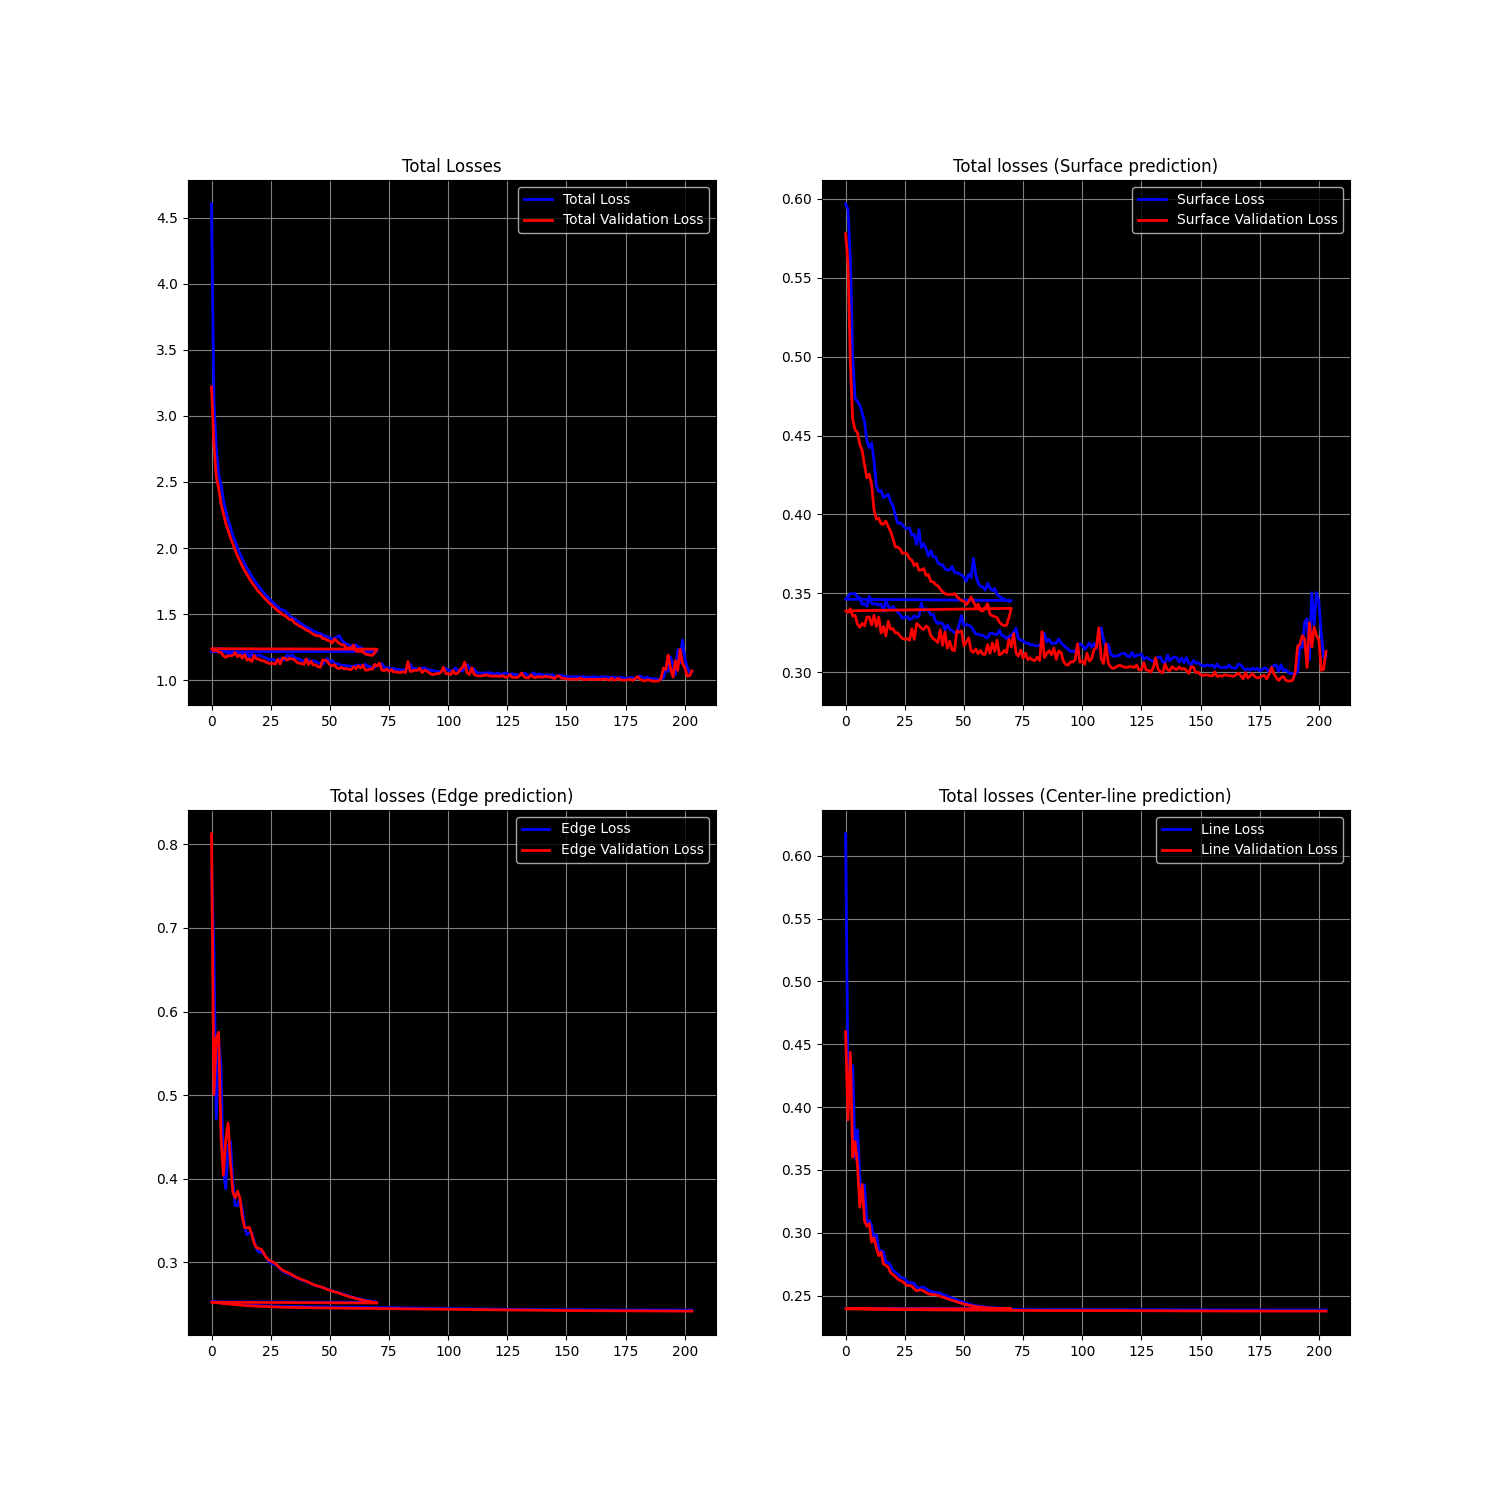
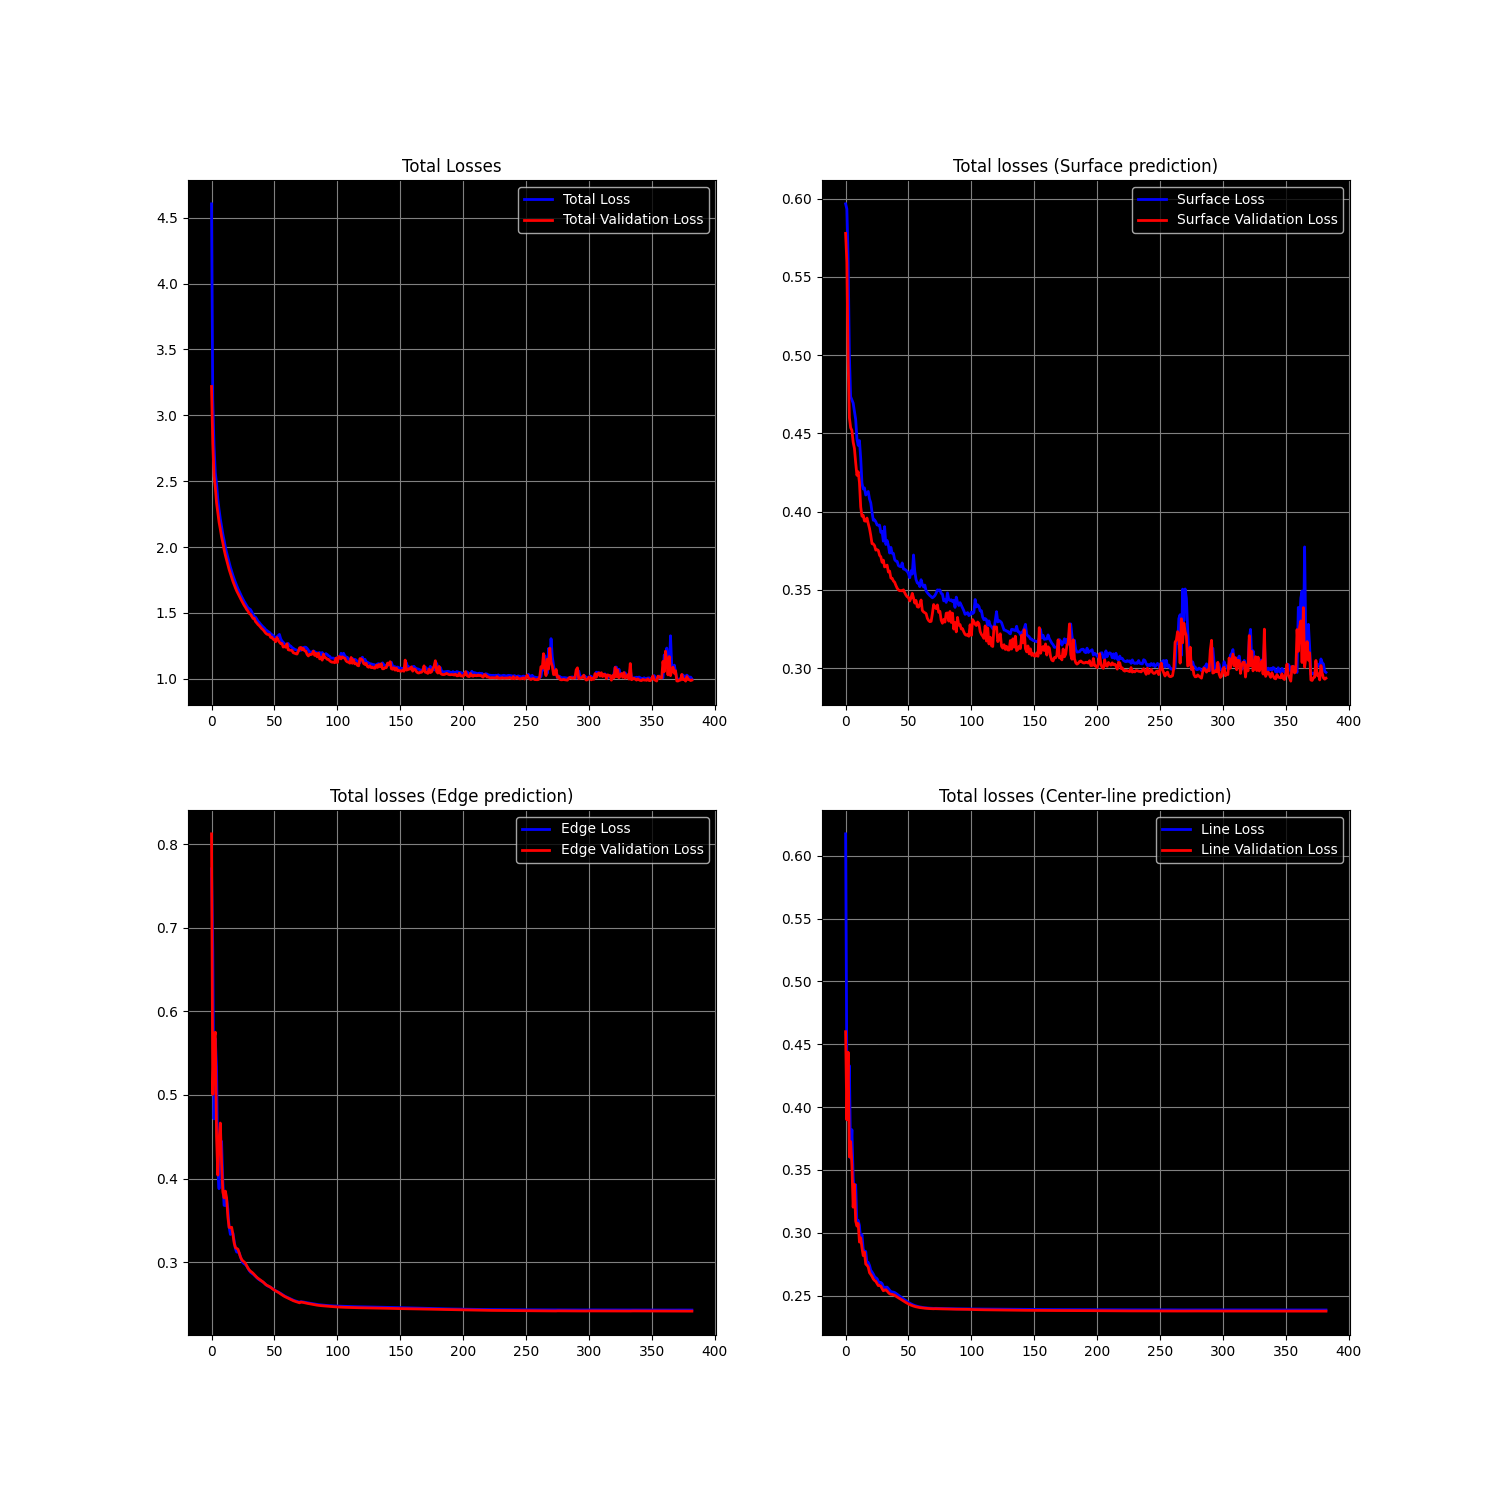
Modified visualize.py file

diff --git a/ver_2/models.py b/ver_2/models.py
@@ -41,7 +41,7 @@ class RoadSurfaceNet(object):
         ### Second output ###
         ### Size = W/2 * H/2 * 1 ###
         side_2 = Conv2D(2, kernel_size=(1,1), activation='selu')(conv_2)
-        side_2 = Conv2DTranspose(2, kernel_size=(2,2), strides=(2,2), padding='same', activation='sigmoid', kernel_regularizer=l2(l2=1e-4))(side_2)
+        side_2 = Conv2DTranspose(2, kernel_size=(2,2), strides=(2,2), padding='same', activation='sigmoid')(side_2)
 
         ### Stage 3 ###
         conv_3 = Conv2D(32, kernel_size=(3,3), activation='selu', padding='same')(pool_2)
@@ -52,7 +52,7 @@ class RoadSurfaceNet(object):
         ### Third output ###
         ### Size = W/4 * H/4 * 1 ###
         side_3 = Conv2D(2, kernel_size=(1,1), activation='selu')(conv_3)
-        side_3 = Conv2DTranspose(2, kernel_size=(4,4), strides=(4,4), padding='same', activation='sigmoid', kernel_regularizer=l2(l2=1e-4))(side_3)
+        side_3 = Conv2DTranspose(2, kernel_size=(4,4), strides=(4,4), padding='same', activation='sigmoid')(side_3)
 
         ### Stage 4 ###
         conv_4 = Conv2D(64, kernel_size=(3,3), activation='selu', padding='same')(pool_3)
@@ -63,7 +63,7 @@ class RoadSurfaceNet(object):
         ### Fourth output ###
         ### Size = W/8 * H/8 * 1 ###
         side_4 = Conv2D(2, kernel_size=(1,1), activation='selu')(conv_4)
-        side_4 = Conv2DTranspose(2, kernel_size=(8,8), strides=(8,8), padding='same', activation='sigmoid', kernel_regularizer=l2(l2=1e-4))(side_4)
+        side_4 = Conv2DTranspose(2, kernel_size=(8,8), strides=(8,8), padding='same', activation='sigmoid')(side_4)
 
         ### Stage 5 ###
         conv_5 = Conv2D(128, kernel_size=(3,3), activation='selu', padding='same')(pool_4) 
@@ -73,7 +73,7 @@ class RoadSurfaceNet(object):
         ### Fifth output ###
         ### Size = W/16 * H/16 * 1 ###
         side_5 = Conv2D(2, kernel_size=(1,1), activation='sigmoid')(conv_5)
-        side_5 = Conv2DTranspose(2, kernel_size=(16,16), strides=(16,16), padding='same', activation='sigmoid', kernel_regularizer=l2(l2=1e-4))(side_5)
+        side_5 = Conv2DTranspose(2, kernel_size=(16,16), strides=(16,16), padding='same', activation='sigmoid')(side_5)
 
         ### concatenated output ###
         concat = Concatenate(axis=3)([side_1, side_2, side_3, side_4, side_5])
@@ -125,7 +125,7 @@ class SideNet(object):
 
         ### Second output ###
         side_2 = Conv2D(2, kernel_size=(1,1), activation='selu')(conv_2)
-        side_2 = Conv2DTranspose(2, kernel_size=(2,2), strides=(2,2), activation='sigmoid', padding='same', kernel_regularizer=l2(l2=1e-4))(side_2)
+        side_2 = Conv2DTranspose(2, kernel_size=(2,2), strides=(2,2), activation='sigmoid', padding='same')(side_2)
 
         conv_3 = Conv2D(32, kernel_size=(3,3), activation='selu', padding='same')(pool_2)
         conv_3 = Conv2D(32, kernel_size=(3,3), activation='selu', padding='same')(conv_3)
@@ -133,14 +133,14 @@ class SideNet(object):
 
         ### Third output ###
         side_3 = Conv2D(2, kernel_size=(1,1), activation='selu')(conv_3)
-        side_3 = Conv2DTranspose(2, kernel_size=(4,4), strides=(4,4), activation='sigmoid', padding='same', kernel_regularizer=l2(l2=1e-4))(side_3)
+        side_3 = Conv2DTranspose(2, kernel_size=(4,4), strides=(4,4), activation='sigmoid', padding='same')(side_3)
 
         conv_4 = Conv2D(64, kernel_size=(3,3), activation='selu', padding='same')(pool_3)
         conv_4 = Conv2D(64, kernel_size=(3,3), activation='selu', padding='same')(conv_4)
 
         ### Fourth output ###
         side_4 = Conv2D(2, kernel_size=(1,1), activation='selu')(conv_4)
-        side_4 = Conv2DTranspose(2, kernel_size=(8,8), strides=(8,8), activation='sigmoid', padding='same', kernel_regularizer=l2(l2=1e-4))(side_4)
+        side_4 = Conv2DTranspose(2, kernel_size=(8,8), strides=(8,8), activation='sigmoid', padding='same')(side_4)
 
         concat = Concatenate(axis=3)([side_1, side_2, side_3, side_4])
         # concat = tf.keras.layers.concatenate((side_1, side_2, side_3, side_4), axis=3)

diff --git a/ver_2/visualize.py b/ver_2/visualize.py
@@ -23,6 +23,7 @@ columns = [
 ]
 
 data_frame = data_frame[columns]
+data_frame['epoch'] = list(range(len(data_frame['epoch'])))
 
 fig1, ax1 = plt.subplots(2,2, figsize=(15,15))
 fig2, ax2 = plt.subplots(3,1, figsize=(10, 20))

diff --git a/visualize.py b/visualize.py
@@ -23,6 +23,7 @@ columns = [
 ]
 
 data_frame = data_frame[columns]
+data_frame['epoch'] = list(range(len(data_frame['epoch'])))
 
 fig1, ax1 = plt.subplots(2,2, figsize=(15,15))
 fig2, ax2 = plt.subplots(3,1, figsize=(10, 20))
